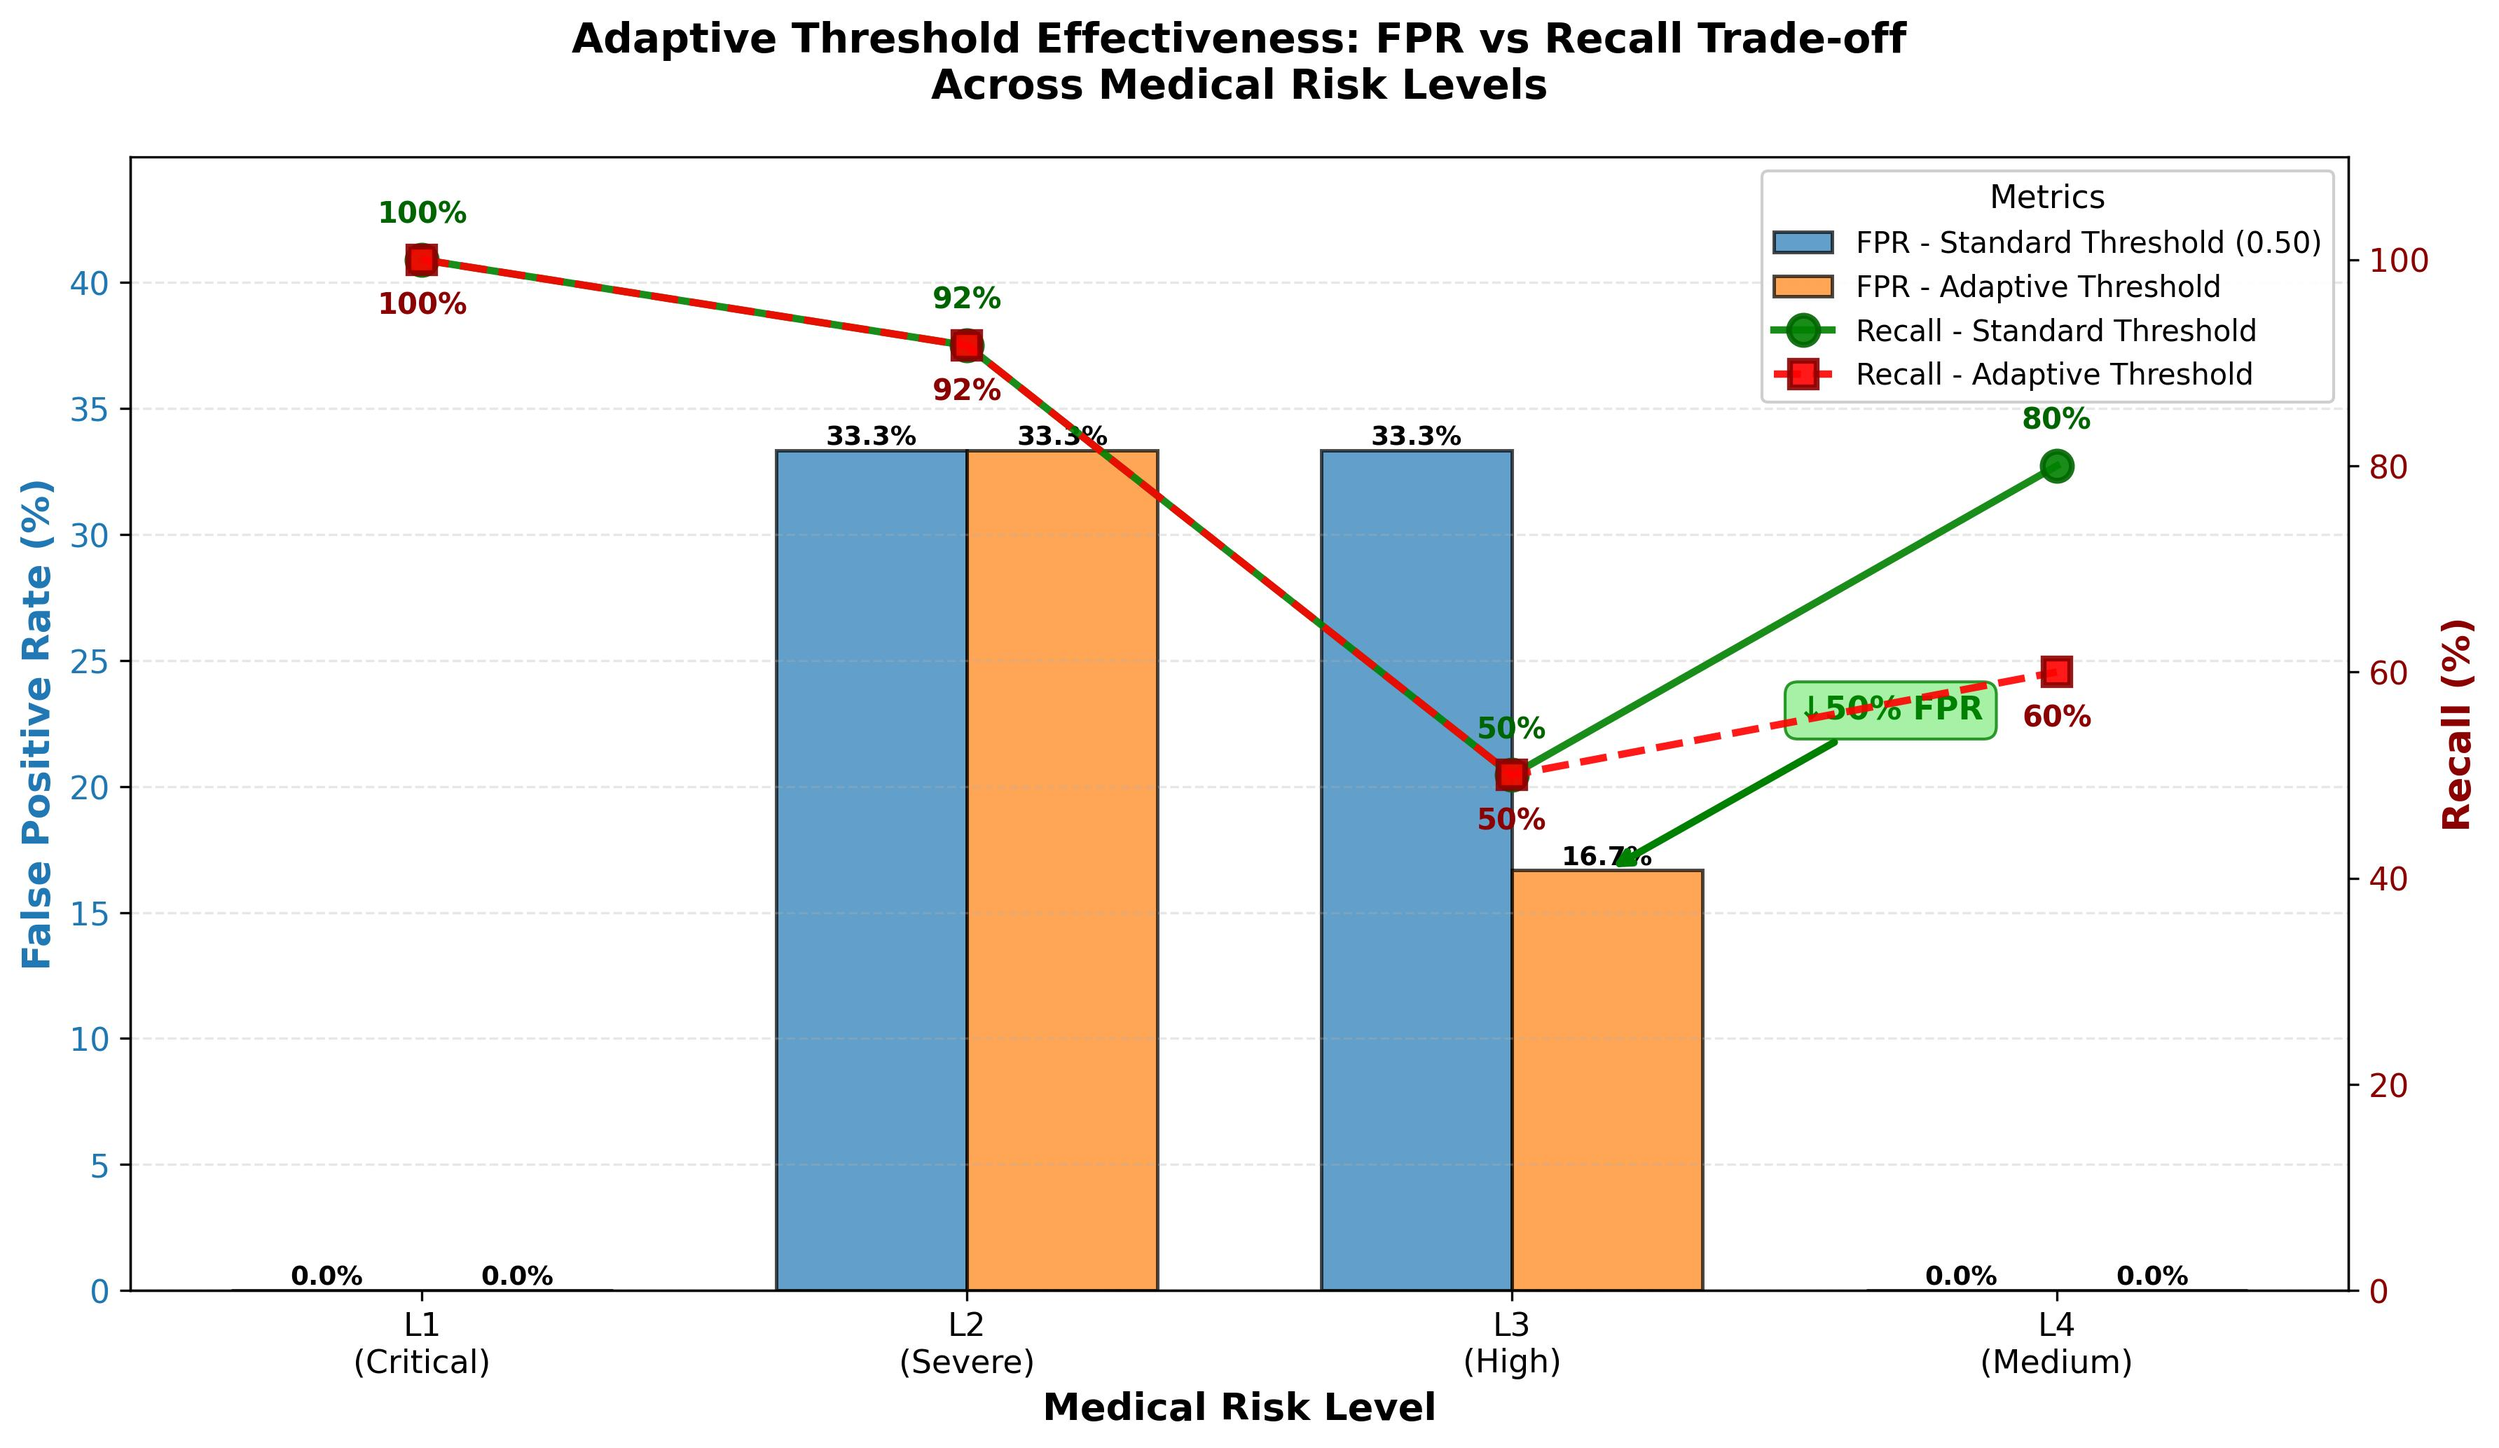
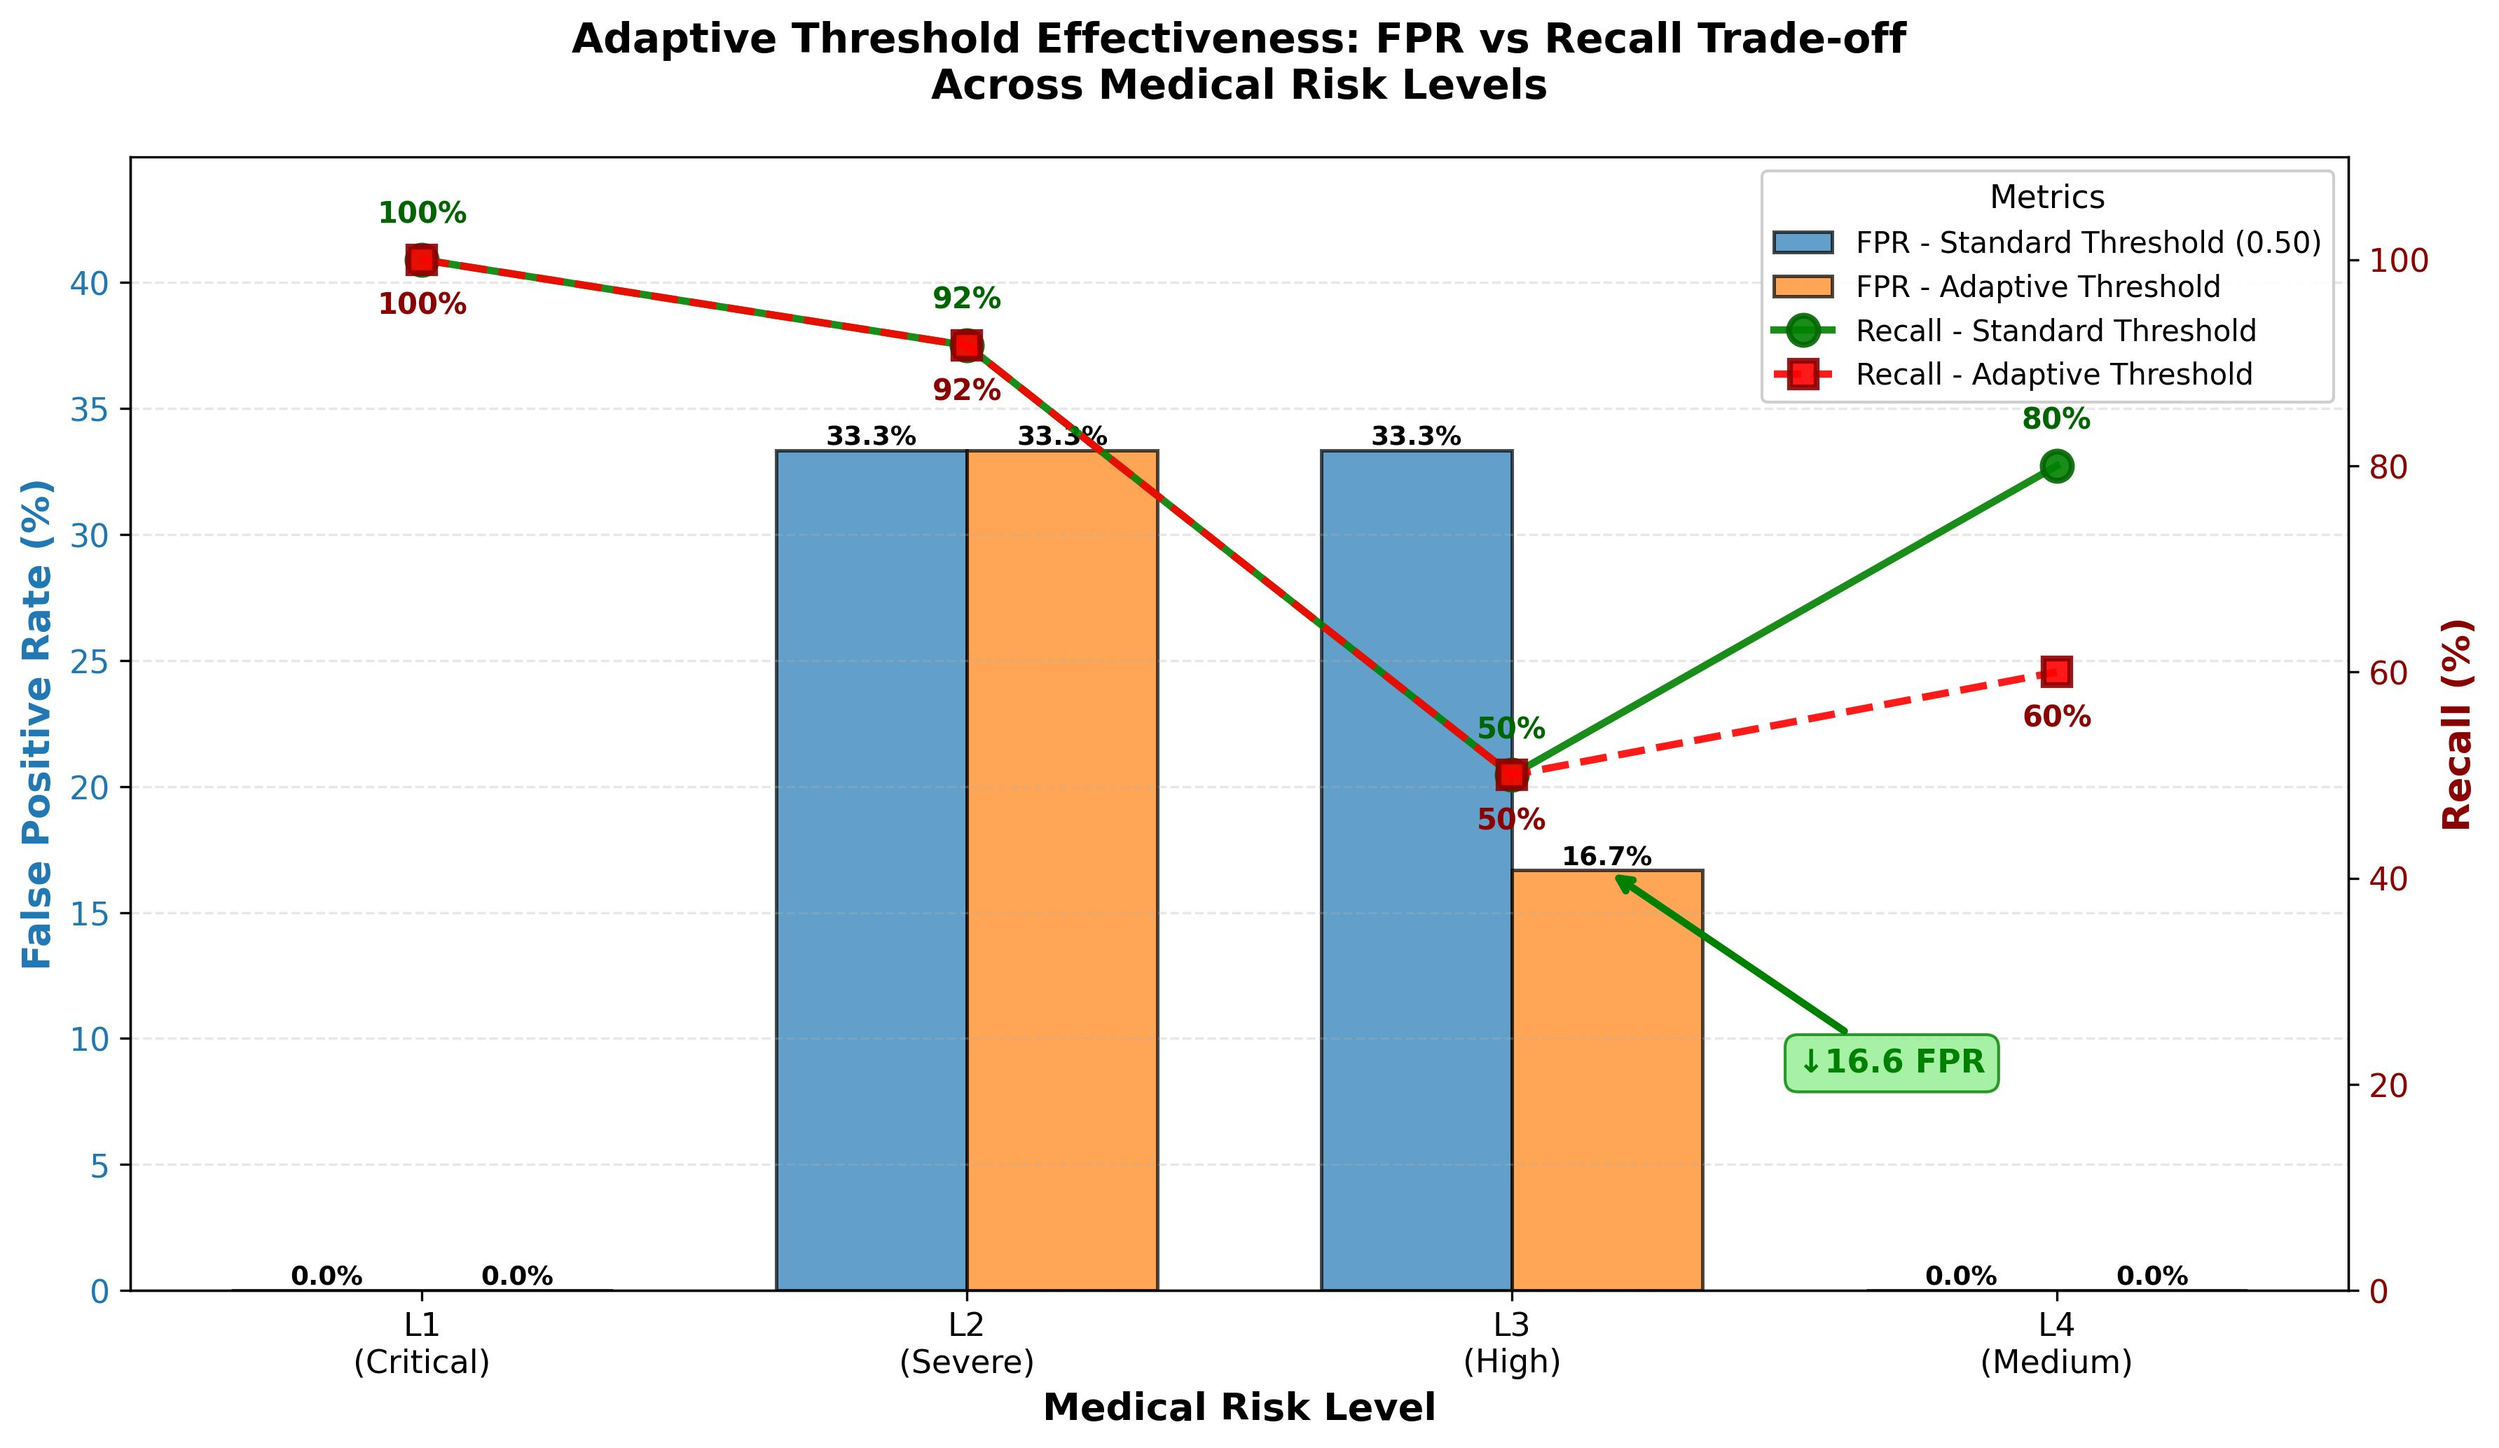
Adaptive_thresholds

diff --git a/Adaptive_thresholds.py b/Adaptive_thresholds.py
@@ -114,10 +114,14 @@ ax2.tick_params(axis='y', labelcolor='darkred', labelsize=11)
 # ============================================================================
 # L3 Success: FPR reduction
 if fpr_change[2] < 0:
-    improvement_pct = abs(fpr_change[2]) / fpr_standard[2] * 100
-    ax1.annotate(f'↓{improvement_pct:.0f}% FPR', 
+    fpr_std_rounded = round(fpr_standard[2], 1)  # 33.3
+    fpr_adp_rounded = round(fpr_adaptive[2], 1)  # 16.7
+    absolute_reduction = fpr_std_rounded - fpr_adp_rounded  # 16.6
+    
+    # Move annotation DOWN: change y position from fpr_adaptive[2] + 6 to fpr_adaptive[2] - 8
+    ax1.annotate(f'↓{absolute_reduction:.1f} FPR',  # Displays 16.6 
                 xy=(2 + width/2, fpr_adaptive[2]),
-                xytext=(2 + width/2 + 0.35, fpr_adaptive[2] + 6),
+                xytext=(2 + width/2 + 0.35, fpr_adaptive[2] - 8),  # ← Moved DOWN by 14 units
                 fontsize=11, fontweight='bold', color='green',
                 arrowprops=dict(arrowstyle='->', color='green', lw=2.5),
                 bbox=dict(boxstyle='round,pad=0.4', facecolor='lightgreen', 
@@ -146,54 +150,3 @@ jpg_file = OUTPUT_DIR / 'adaptive_thresholds.jpg'
 plt.savefig(jpg_file, dpi=300, bbox_inches='tight')
 
 print(f"\n✅ Saved JPG: {jpg_file}")
-
-# ==============================================================================
-# Console Output
-# ==============================================================================
-print("\n" + "="*70)
-print("KEY FINDINGS (DUAL-AXIS ANALYSIS)")
-print("="*70)
-
-# Highlight L3 success
-l3_improvement = abs(fpr_change[2]) / fpr_standard[2] * 100
-print(f"⭐ L3 (High Risk): FPR reduced by {l3_improvement:.1f}% (33.33% → 16.67%)")
-print(f"   Recall unchanged: {recall_standard[2]:.0f}% → {recall_adaptive[2]:.0f}%")
-print(f"   ✅ OPTIMAL TRADE-OFF: Lower FPR without sacrificing detection")
-
-# Explain L1/L2 no change
-if fpr_change[0] == 0 and fpr_change[1] == 0:
-    print(f"\n✓ L1/L2 (Critical/Severe): No FPR change")
-    print(f"   L1 Recall: {recall_standard[0]:.0f}% → {recall_adaptive[0]:.0f}% (Perfect detection)")
-    print(f"   L2 Recall: {recall_standard[1]:.0f}% → {recall_adaptive[1]:.0f}%")
-    print(f"   Reason: High-confidence cases already correctly classified")
-
-
-# Visualize trade-off
-print("\n" + "="*70)
-print("TRADE-OFF MATRIX")
-print("="*70)
-print("Level | FPR Change | Recall Change | Assessment")
-print("------|------------|---------------|------------")
-for i, level in enumerate(risk_levels):
-    fpr_arrow = "⬇" if fpr_change[i] < 0 else "➡" if fpr_change[i] == 0 else "⬆"
-    recall_arrow = "⬇" if recall_change[i] < 0 else "➡" if recall_change[i] == 0 else "⬆"
-    
-    if fpr_change[i] < 0 and recall_change[i] >= 0:
-        assessment = "✅ SUCCESS"
-    elif fpr_change[i] == 0 and recall_change[i] >= 0:
-        assessment = "✓ STABLE"
-    elif recall_change[i] < -30:
-        assessment = "❌ FAILURE"
-    else:
-        assessment = "⚠ REVIEW"
-    
-    print(f"{level:5} | {fpr_arrow:2} {fpr_change[i]:+6.1f}% | {recall_arrow:2} {recall_change[i]:+6.0f}%  | {assessment}")
-
-print("\n" + "="*70)
-print("DUAL-AXIS VISUALIZATION COMPLETE")
-print("="*70)
-print("The chart now shows:")
-print("  📊 LEFT AXIS (Blue): False Positive Rate (bars)")
-print("  📈 RIGHT AXIS (Red): Recall (lines)")
-print("  ➡ Enables direct visual comparison of FPR-Recall trade-offs")
-print("="*70)
